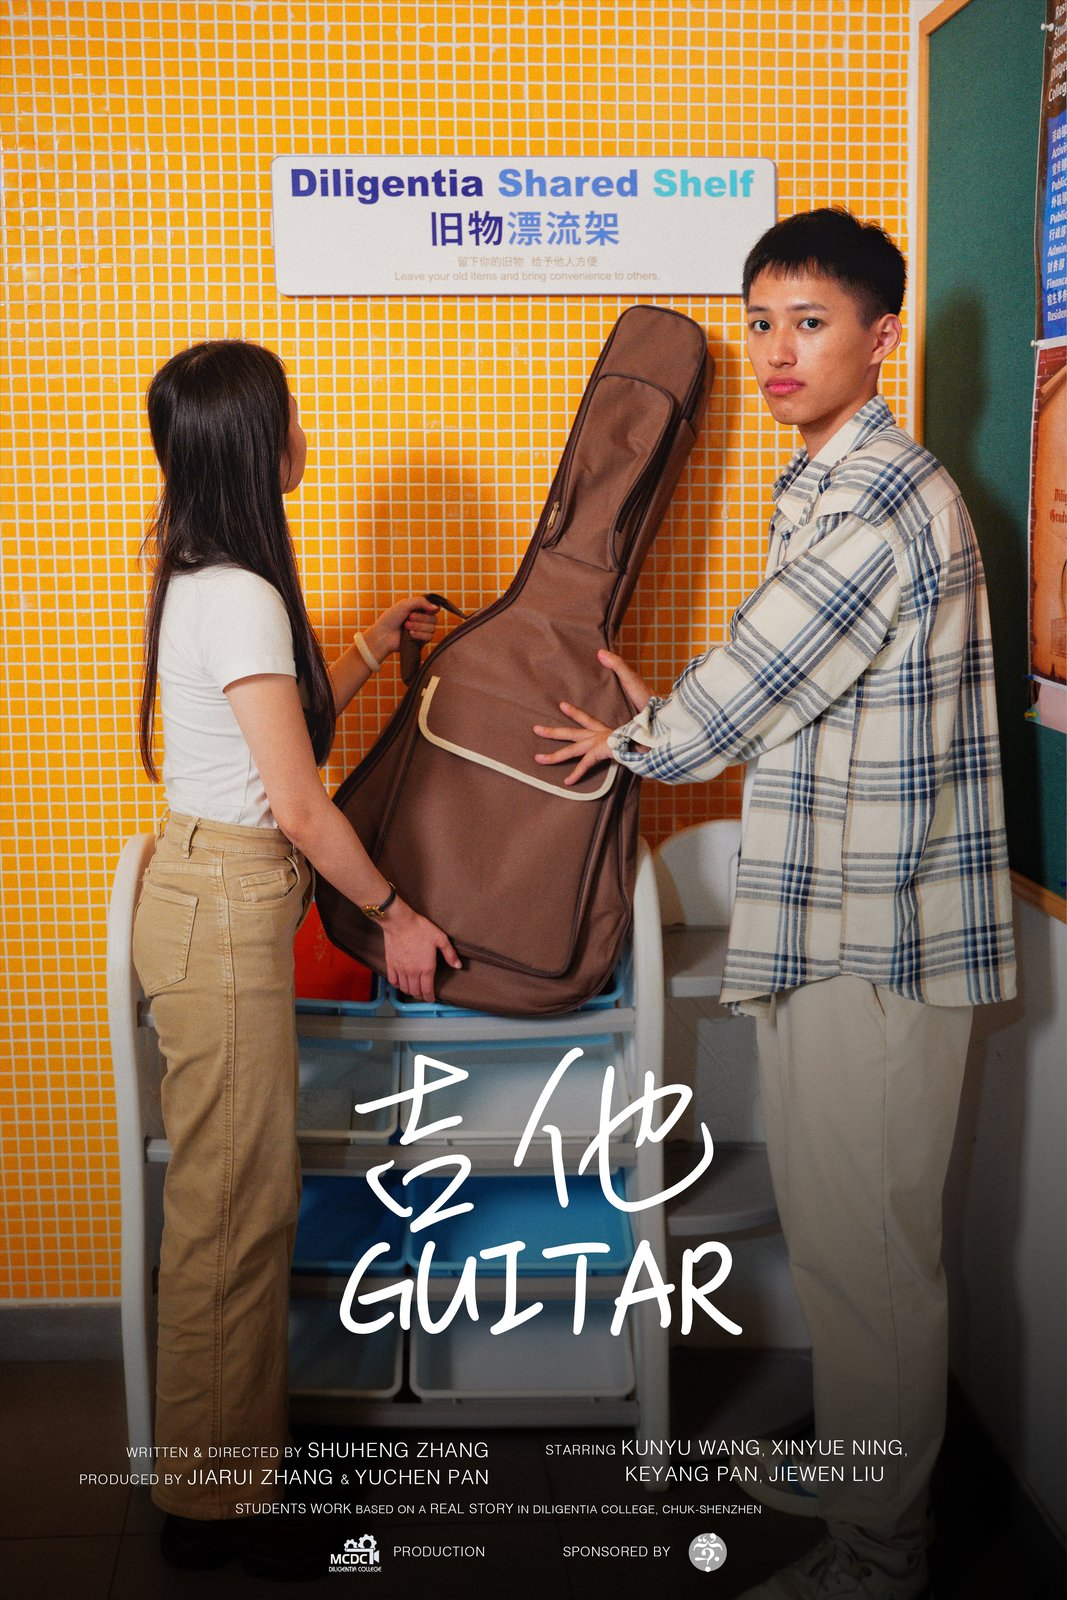
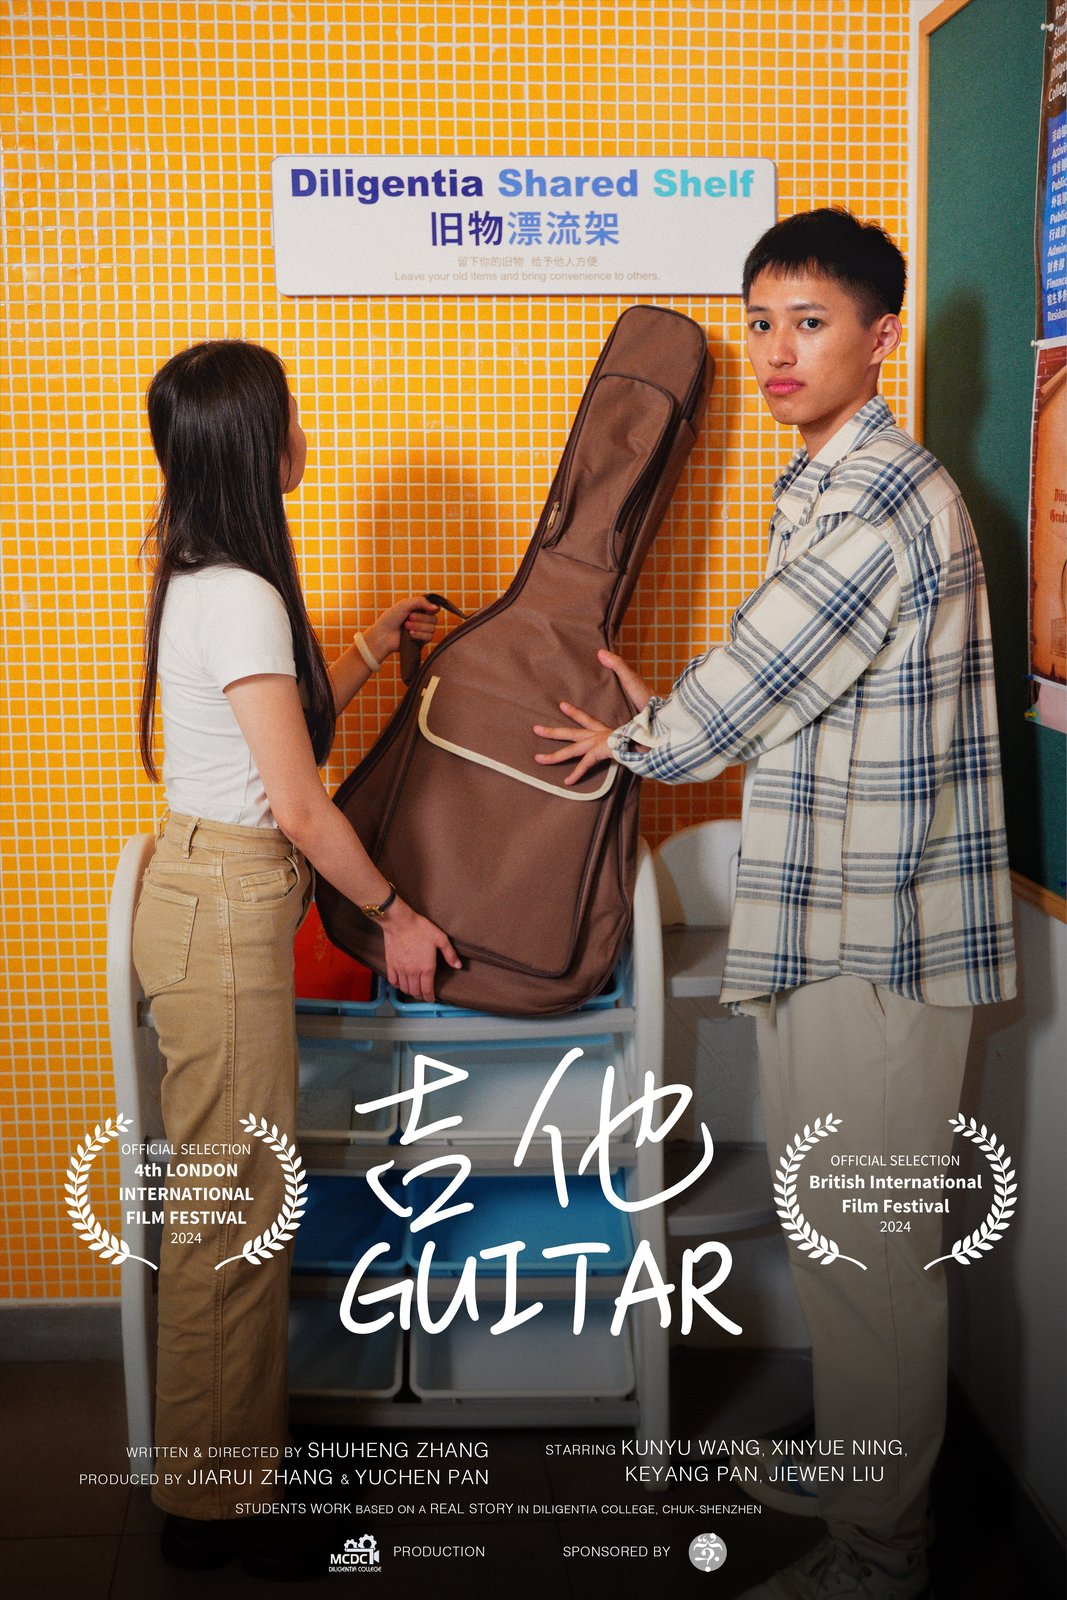
Film: the Guitar laurels sit on the poster, either side of the title
The owner's call: the two festivals' white laurels composited onto the
poster, small, left and right of 吉他 / GUITAR, and no laurel images on
the page itself. The alt text still names both selections. The laurel
PNGs and their CSS go.

Changed region(s): [[0.7113, 0.6875, 0.9588, 0.8125], [0.0619, 0.6875, 0.3093, 0.8125]]

diff --git a/films/index.html b/films/index.html
@@ -24,7 +24,7 @@
     <!-- Every panel below is also served at its own path (/research/, /writing/, ...)
          by tools/build_pages.py, which copies this file per panel. Re-run it after
          editing this file; build_gallery.py runs it for you. -->
-    <link rel="stylesheet" href="/assets/css/site.css?v=25">
+    <link rel="stylesheet" href="/assets/css/site.css?v=26">
     <script src="/assets/js/gallery.js?v=15" defer></script>
     <script src="/assets/js/site.js?v=16" defer></script>
   </head>
@@ -463,7 +463,7 @@
           </div>
 
           <div class="film">
-            <img class="film__poster" src="/assets/img/films/guitar/poster.jpg" alt="Guitar poster" loading="eager">
+            <img class="film__poster" src="/assets/img/films/guitar/poster.jpg" alt="Guitar poster, with the Official Selection laurels of the 4th London International Film Festival 2024 and the British International Film Festival 2024" loading="eager">
             <div>
               <h3>Guitar</h3>
               <p class="meta">2024 &middot; Shenzhen, China &middot; Writer, director</p>
@@ -473,12 +473,6 @@
                 real story at Diligentia College, CUHK-Shenzhen; produced by
                 Jiarui Zhang and Yuchen Pan, starring Kunyu Wang, Xinyue Ning,
                 Keyang Pan and Jiewen Liu.
-              </p>
-              <p class="film__laurels">
-                <img class="film__laurel" src="/assets/img/films/guitar/laurel-liff-2024.png" width="600" height="389" loading="lazy"
-                     alt="Official Selection, 4th London International Film Festival, 2024">
-                <img class="film__laurel" src="/assets/img/films/guitar/laurel-biff-2024.png" width="600" height="389" loading="lazy"
-                     alt="Official Selection, British International Film Festival, 2024">
               </p>
               <p><a href="https://youtu.be/imAeOdqr7XE" target="_blank" rel="noreferrer">Watch film</a></p>
             </div>

diff --git a/life/index.html b/life/index.html
@@ -24,7 +24,7 @@
     <!-- Every panel below is also served at its own path (/research/, /writing/, ...)
          by tools/build_pages.py, which copies this file per panel. Re-run it after
          editing this file; build_gallery.py runs it for you. -->
-    <link rel="stylesheet" href="/assets/css/site.css?v=25">
+    <link rel="stylesheet" href="/assets/css/site.css?v=26">
     <script src="/assets/js/gallery.js?v=15" defer></script>
     <script src="/assets/js/site.js?v=16" defer></script>
   </head>
@@ -463,7 +463,7 @@
           </div>
 
           <div class="film">
-            <img class="film__poster" src="/assets/img/films/guitar/poster.jpg" alt="Guitar poster" loading="lazy">
+            <img class="film__poster" src="/assets/img/films/guitar/poster.jpg" alt="Guitar poster, with the Official Selection laurels of the 4th London International Film Festival 2024 and the British International Film Festival 2024" loading="lazy">
             <div>
               <h3>Guitar</h3>
               <p class="meta">2024 &middot; Shenzhen, China &middot; Writer, director</p>
@@ -473,12 +473,6 @@
                 real story at Diligentia College, CUHK-Shenzhen; produced by
                 Jiarui Zhang and Yuchen Pan, starring Kunyu Wang, Xinyue Ning,
                 Keyang Pan and Jiewen Liu.
-              </p>
-              <p class="film__laurels">
-                <img class="film__laurel" src="/assets/img/films/guitar/laurel-liff-2024.png" width="600" height="389" loading="lazy"
-                     alt="Official Selection, 4th London International Film Festival, 2024">
-                <img class="film__laurel" src="/assets/img/films/guitar/laurel-biff-2024.png" width="600" height="389" loading="lazy"
-                     alt="Official Selection, British International Film Festival, 2024">
               </p>
               <p><a href="https://youtu.be/imAeOdqr7XE" target="_blank" rel="noreferrer">Watch film</a></p>
             </div>

diff --git a/photography/index.html b/photography/index.html
@@ -24,7 +24,7 @@
     <!-- Every panel below is also served at its own path (/research/, /writing/, ...)
          by tools/build_pages.py, which copies this file per panel. Re-run it after
          editing this file; build_gallery.py runs it for you. -->
-    <link rel="stylesheet" href="/assets/css/site.css?v=25">
+    <link rel="stylesheet" href="/assets/css/site.css?v=26">
     <script src="/assets/js/gallery.js?v=15" defer></script>
     <script src="/assets/js/site.js?v=16" defer></script>
   </head>
@@ -463,7 +463,7 @@
           </div>
 
           <div class="film">
-            <img class="film__poster" src="/assets/img/films/guitar/poster.jpg" alt="Guitar poster" loading="lazy">
+            <img class="film__poster" src="/assets/img/films/guitar/poster.jpg" alt="Guitar poster, with the Official Selection laurels of the 4th London International Film Festival 2024 and the British International Film Festival 2024" loading="lazy">
             <div>
               <h3>Guitar</h3>
               <p class="meta">2024 &middot; Shenzhen, China &middot; Writer, director</p>
@@ -473,12 +473,6 @@
                 real story at Diligentia College, CUHK-Shenzhen; produced by
                 Jiarui Zhang and Yuchen Pan, starring Kunyu Wang, Xinyue Ning,
                 Keyang Pan and Jiewen Liu.
-              </p>
-              <p class="film__laurels">
-                <img class="film__laurel" src="/assets/img/films/guitar/laurel-liff-2024.png" width="600" height="389" loading="lazy"
-                     alt="Official Selection, 4th London International Film Festival, 2024">
-                <img class="film__laurel" src="/assets/img/films/guitar/laurel-biff-2024.png" width="600" height="389" loading="lazy"
-                     alt="Official Selection, British International Film Festival, 2024">
               </p>
               <p><a href="https://youtu.be/imAeOdqr7XE" target="_blank" rel="noreferrer">Watch film</a></p>
             </div>

diff --git a/research/index.html b/research/index.html
@@ -24,7 +24,7 @@
     <!-- Every panel below is also served at its own path (/research/, /writing/, ...)
          by tools/build_pages.py, which copies this file per panel. Re-run it after
          editing this file; build_gallery.py runs it for you. -->
-    <link rel="stylesheet" href="/assets/css/site.css?v=25">
+    <link rel="stylesheet" href="/assets/css/site.css?v=26">
     <script src="/assets/js/gallery.js?v=15" defer></script>
     <script src="/assets/js/site.js?v=16" defer></script>
   </head>
@@ -463,7 +463,7 @@
           </div>
 
           <div class="film">
-            <img class="film__poster" src="/assets/img/films/guitar/poster.jpg" alt="Guitar poster" loading="lazy">
+            <img class="film__poster" src="/assets/img/films/guitar/poster.jpg" alt="Guitar poster, with the Official Selection laurels of the 4th London International Film Festival 2024 and the British International Film Festival 2024" loading="lazy">
             <div>
               <h3>Guitar</h3>
               <p class="meta">2024 &middot; Shenzhen, China &middot; Writer, director</p>
@@ -473,12 +473,6 @@
                 real story at Diligentia College, CUHK-Shenzhen; produced by
                 Jiarui Zhang and Yuchen Pan, starring Kunyu Wang, Xinyue Ning,
                 Keyang Pan and Jiewen Liu.
-              </p>
-              <p class="film__laurels">
-                <img class="film__laurel" src="/assets/img/films/guitar/laurel-liff-2024.png" width="600" height="389" loading="lazy"
-                     alt="Official Selection, 4th London International Film Festival, 2024">
-                <img class="film__laurel" src="/assets/img/films/guitar/laurel-biff-2024.png" width="600" height="389" loading="lazy"
-                     alt="Official Selection, British International Film Festival, 2024">
               </p>
               <p><a href="https://youtu.be/imAeOdqr7XE" target="_blank" rel="noreferrer">Watch film</a></p>
             </div>

diff --git a/writing/index.html b/writing/index.html
@@ -24,7 +24,7 @@
     <!-- Every panel below is also served at its own path (/research/, /writing/, ...)
          by tools/build_pages.py, which copies this file per panel. Re-run it after
          editing this file; build_gallery.py runs it for you. -->
-    <link rel="stylesheet" href="/assets/css/site.css?v=25">
+    <link rel="stylesheet" href="/assets/css/site.css?v=26">
     <script src="/assets/js/gallery.js?v=15" defer></script>
     <script src="/assets/js/site.js?v=16" defer></script>
   </head>
@@ -463,7 +463,7 @@
           </div>
 
           <div class="film">
-            <img class="film__poster" src="/assets/img/films/guitar/poster.jpg" alt="Guitar poster" loading="lazy">
+            <img class="film__poster" src="/assets/img/films/guitar/poster.jpg" alt="Guitar poster, with the Official Selection laurels of the 4th London International Film Festival 2024 and the British International Film Festival 2024" loading="lazy">
             <div>
               <h3>Guitar</h3>
               <p class="meta">2024 &middot; Shenzhen, China &middot; Writer, director</p>
@@ -473,12 +473,6 @@
                 real story at Diligentia College, CUHK-Shenzhen; produced by
                 Jiarui Zhang and Yuchen Pan, starring Kunyu Wang, Xinyue Ning,
                 Keyang Pan and Jiewen Liu.
-              </p>
-              <p class="film__laurels">
-                <img class="film__laurel" src="/assets/img/films/guitar/laurel-liff-2024.png" width="600" height="389" loading="lazy"
-                     alt="Official Selection, 4th London International Film Festival, 2024">
-                <img class="film__laurel" src="/assets/img/films/guitar/laurel-biff-2024.png" width="600" height="389" loading="lazy"
-                     alt="Official Selection, British International Film Festival, 2024">
               </p>
               <p><a href="https://youtu.be/imAeOdqr7XE" target="_blank" rel="noreferrer">Watch film</a></p>
             </div>

diff --git a/index.html b/index.html
@@ -24,7 +24,7 @@
     <!-- Every panel below is also served at its own path (/research/, /writing/, ...)
          by tools/build_pages.py, which copies this file per panel. Re-run it after
          editing this file; build_gallery.py runs it for you. -->
-    <link rel="stylesheet" href="assets/css/site.css?v=25">
+    <link rel="stylesheet" href="assets/css/site.css?v=26">
     <script src="assets/js/gallery.js?v=15" defer></script>
     <script src="assets/js/site.js?v=16" defer></script>
   </head>
@@ -463,7 +463,7 @@
           </div>
 
           <div class="film">
-            <img class="film__poster" src="assets/img/films/guitar/poster.jpg" alt="Guitar poster" loading="lazy">
+            <img class="film__poster" src="assets/img/films/guitar/poster.jpg" alt="Guitar poster, with the Official Selection laurels of the 4th London International Film Festival 2024 and the British International Film Festival 2024" loading="lazy">
             <div>
               <h3>Guitar</h3>
               <p class="meta">2024 &middot; Shenzhen, China &middot; Writer, director</p>
@@ -473,12 +473,6 @@
                 real story at Diligentia College, CUHK-Shenzhen; produced by
                 Jiarui Zhang and Yuchen Pan, starring Kunyu Wang, Xinyue Ning,
                 Keyang Pan and Jiewen Liu.
-              </p>
-              <p class="film__laurels">
-                <img class="film__laurel" src="assets/img/films/guitar/laurel-liff-2024.png" width="600" height="389" loading="lazy"
-                     alt="Official Selection, 4th London International Film Festival, 2024">
-                <img class="film__laurel" src="assets/img/films/guitar/laurel-biff-2024.png" width="600" height="389" loading="lazy"
-                     alt="Official Selection, British International Film Festival, 2024">
               </p>
               <p><a href="https://youtu.be/imAeOdqr7XE" target="_blank" rel="noreferrer">Watch film</a></p>
             </div>

diff --git a/assets/css/site.css b/assets/css/site.css
@@ -259,20 +259,6 @@ img.film__poster {
   cursor: zoom-in;
 }
 
-/* Festival laurels under a film's text: a short row of small images. */
-.film__laurels {
-  display: flex;
-  flex-wrap: wrap;
-  gap: 1rem;
-  align-items: center;
-  margin: 0.2rem 0 0.9rem;
-}
-
-.film__laurel {
-  width: 9rem;
-  height: auto;
-}
-
 .film__poster--empty {
   display: flex;
   align-items: flex-end;

diff --git a/van/index.html b/van/index.html
@@ -8,7 +8,7 @@
       name="description"
       content="Shuheng Zhang's self-built Chevy Express camper and the life on the road."
     >
-    <link rel="stylesheet" href="../assets/css/site.css?v=25">
+    <link rel="stylesheet" href="../assets/css/site.css?v=26">
     <script src="../assets/js/gallery.js?v=15" defer></script>
   </head>
   <body>
